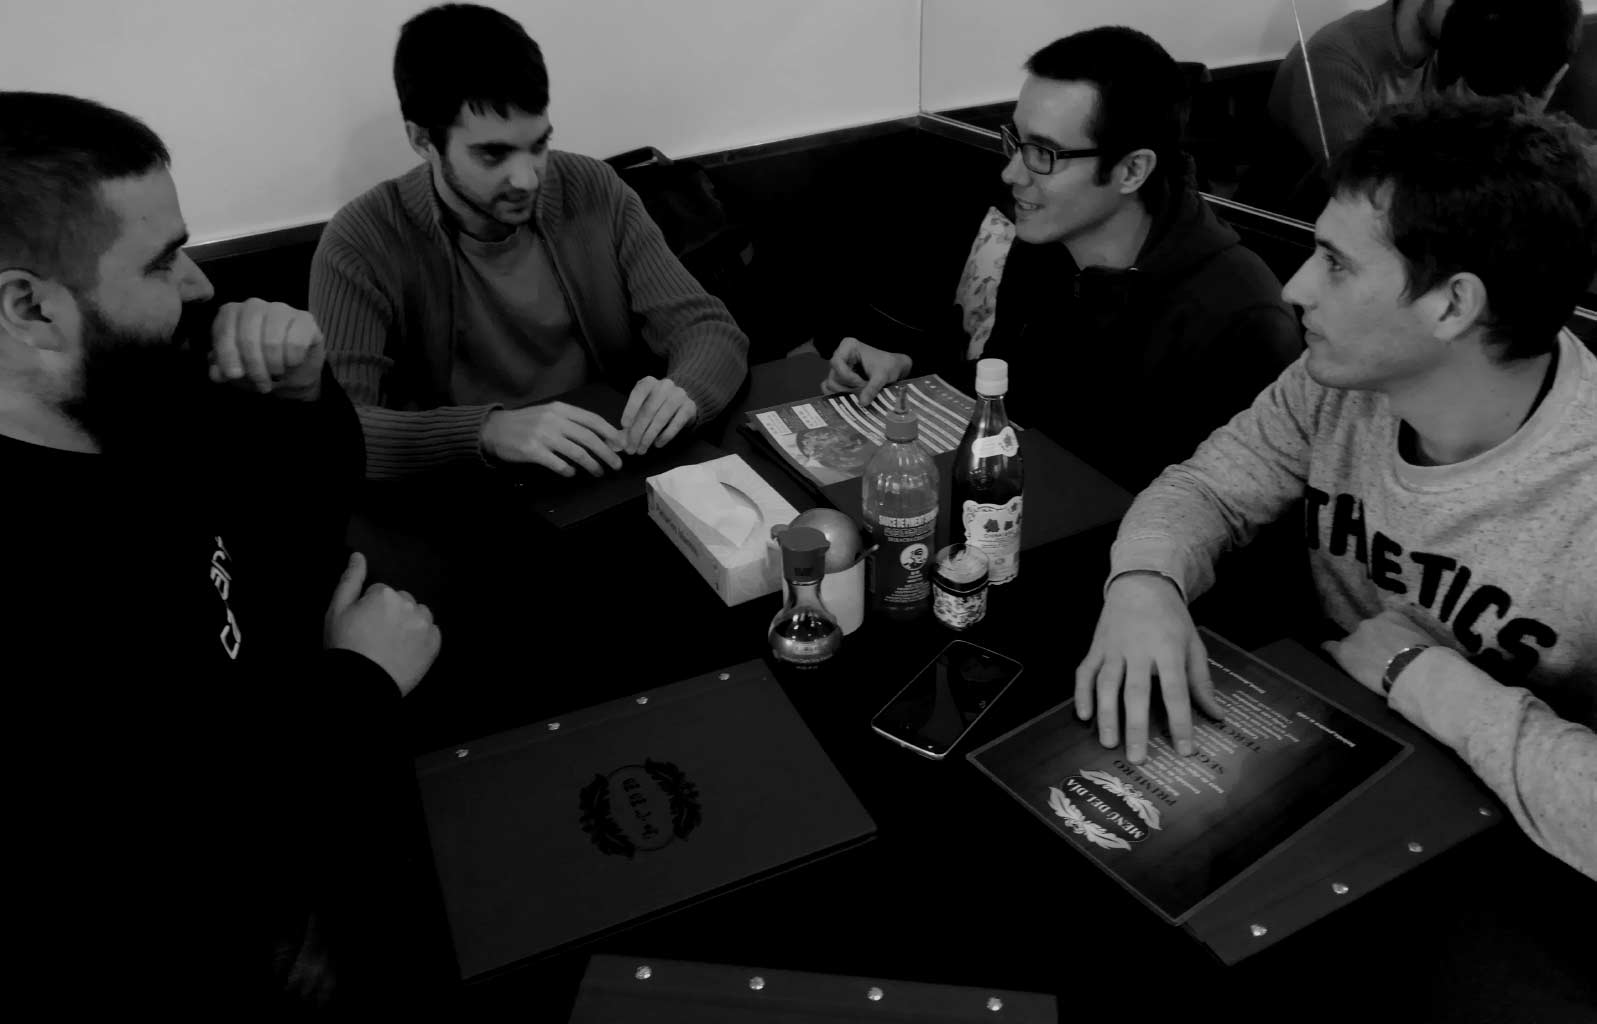
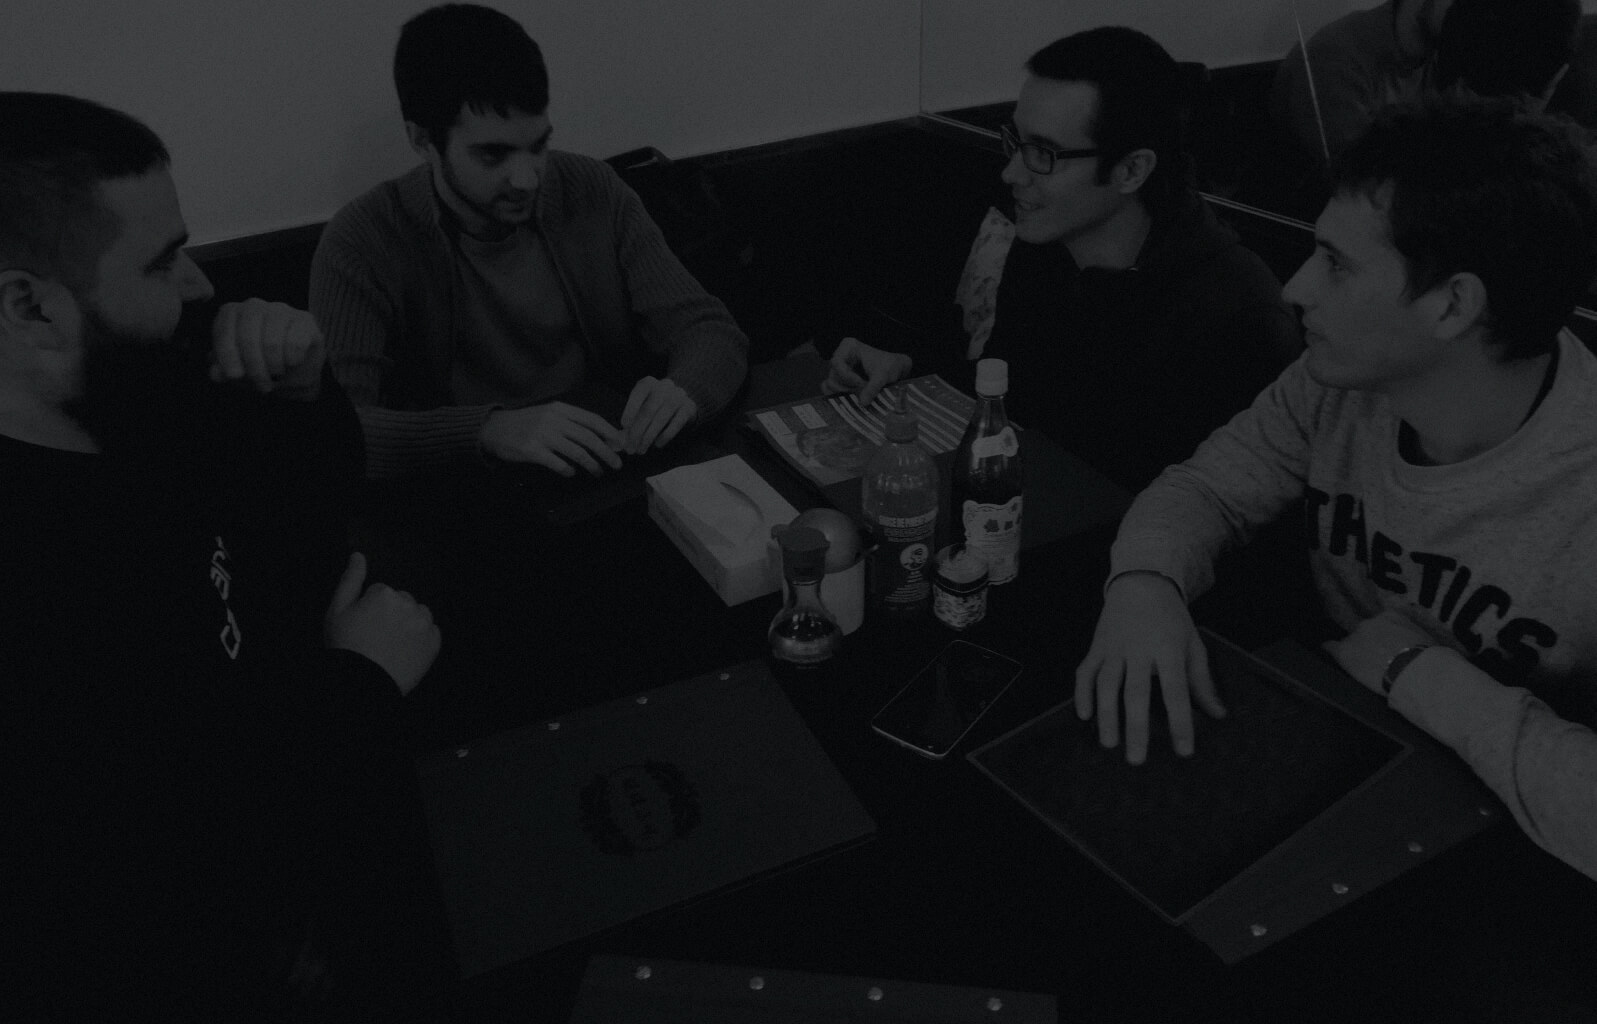
Remove noise Code format

diff --git a/app/styles/modules/_home.scss b/app/styles/modules/_home.scss
@@ -12,20 +12,6 @@
     overflow: hidden;
     transition: height $normal-transition;
     z-index: 5;
-    &::after {
-      content: '';
-      position: absolute;
-      top: 0;
-      left: 0;
-      width: 100%;
-      height: 100%;
-      background: url('../images/noise.png') #0f1112;
-      background-attachment: fixed;
-      transition: opacity .5s ease-in-out;
-      opacity: .7;
-      z-index: 0;
-    }
-
     h2, .scroll-appear {
       color: #FFF;
       position: absolute;
@@ -91,7 +77,7 @@
         }
       }
       &.background-video-company {
-        background: url('/images/company/company-bg_.jpg');
+        background: url('/images/company/company-bg.jpg');
         animation-name: background-video;
         opacity: 0;
         visibility: hidden;
@@ -124,22 +110,6 @@
         background: $black;
       }
     }
-    &::after {
-      content: '';
-      position: absolute;
-      top: 0;
-      left: 0;
-      width: 100%;
-      height: 100%;
-      background: url('../images/noise.png') #0f1112;
-      background-attachment: fixed;
-      transition: opacity .5s ease-in-out;
-      opacity: .7;
-      z-index: 2;
-      @media all and (max-width: 600px) {
-        opacity: 0;
-      }
-    }
     video {
       object-fit: cover;
       top: 0;
@@ -158,7 +128,7 @@
       display: none;
     }
   }
-  h2{
+  h2 {
     font-size: 64px;
     font-weight: 600;
     line-height: 82px;
@@ -219,8 +189,7 @@ body.home-intro.homepage {
     right: 50px;
     display: block;
     transition: all $normal-transition;
-
-    @media all and (max-width: 740px){
+    @media all and (max-width: 740px) {
       display: none;
     }
   }

diff --git a/app/styles/modules/_company.scss b/app/styles/modules/_company.scss
@@ -4,7 +4,7 @@
   main {
     z-index: 0;
     .section-bg {
-      background: url('../images/company/company-bg_.jpg');
+      background: url('../images/company/company-bg.jpg');
       background-size: cover;
       background-position: center;
       animation-name: section-bg;

diff --git a/app/styles/modules/_contact.scss b/app/styles/modules/_contact.scss
@@ -453,7 +453,7 @@
           display: block;
         }
       }
-      &:nth-of-type(2),&:nth-of-type(4) {
+      &:nth-of-type(2), &:nth-of-type(4) {
         margin-right: 0;
       }
       @media all and (max-width: $max-xs) {
